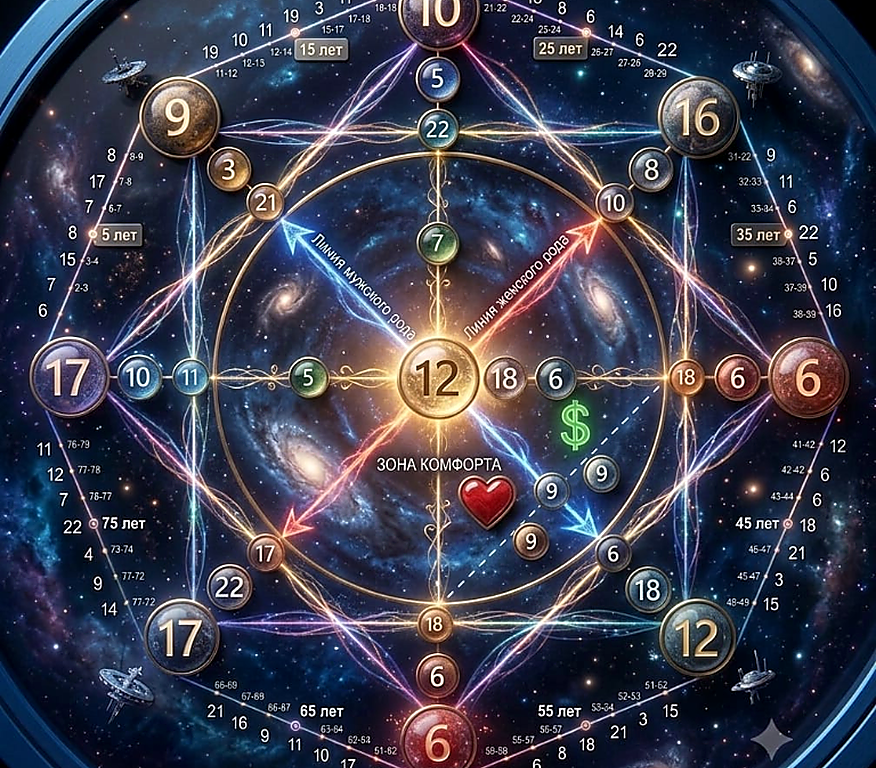
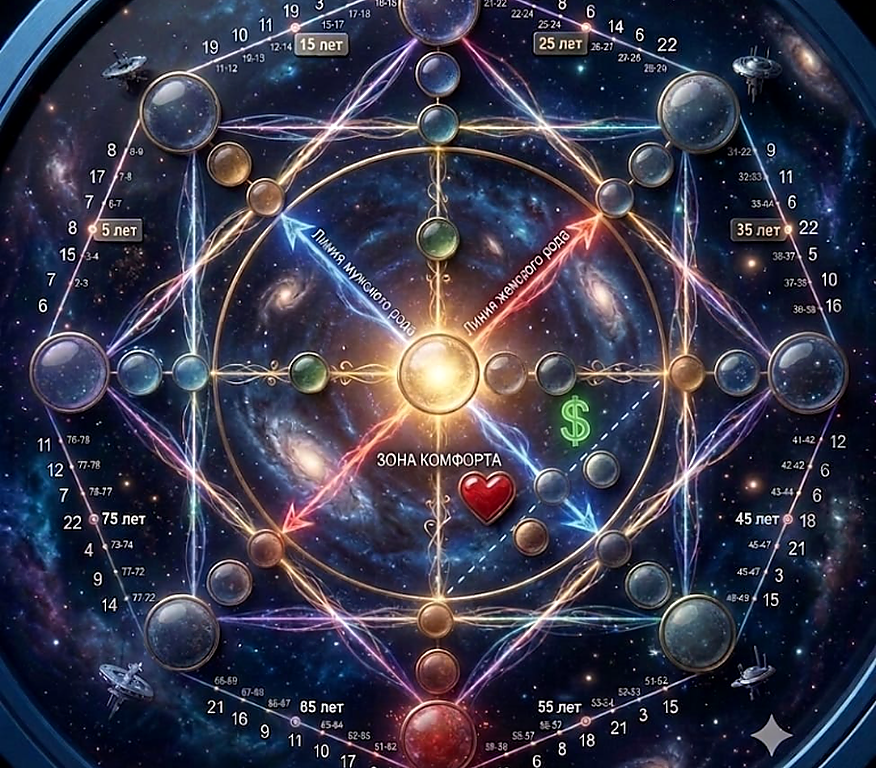
Use blank reference template and keep values rendered in SVG cells

diff --git a/dashboard.css b/dashboard.css
@@ -2880,6 +2880,7 @@ input[type="date"].matrix-input::-webkit-calendar-picker-indicator {
         brightness(1.03);
 }
 #page-matrix .matrix-svg text {
+    fill: rgba(240,244,255,0.94) !important;
     paint-order: stroke fill;
     stroke: rgba(4,7,16,0.50);
     stroke-width: 1.35px;
@@ -2887,6 +2888,19 @@ input[type="date"].matrix-input::-webkit-calendar-picker-indicator {
         0 0 3px rgba(255,255,255,0.10),
         0 0 8px rgba(245,203,104,0.12),
         0 0 12px rgba(95,141,255,0.12);
+}
+#page-matrix .matrix-svg #progressionDotsGroup text {
+    fill: rgba(236,241,255,0.88) !important;
+    stroke: rgba(2,5,14,0.72) !important;
+    stroke-width: 1px;
+}
+#page-matrix .matrix-svg #mvAinCnum,
+#page-matrix .matrix-svg #mvBinCnum,
+#page-matrix .matrix-svg #mvRnum,
+#page-matrix .matrix-svg #mvSnum,
+#page-matrix .matrix-svg #mvVinCnum {
+    fill: rgba(26,32,56,0.94) !important;
+    stroke: rgba(255,255,255,0.40) !important;
 }
 #page-matrix .matrix-svg image {
     filter: none;

diff --git a/dashboard.html b/dashboard.html
@@ -651,7 +651,7 @@
                   <svg id="matrixSvg" viewBox="0 0 876 768" xmlns="http://www.w3.org/2000/svg" class="matrix-svg">
 
                     <!-- Шаблон матрицы как фон -->
-                    <image href="matrix-template-clean.png?v=18" x="0" y="0" width="876" height="768"/>
+                    <image href="matrix-template-clean.png?v=19" x="0" y="0" width="876" height="768"/>
 
                     <!-- ════ ЧИСЛА ПОВЕРХ ШАБЛОНА (точные координаты по пикселям) ════ -->
 
